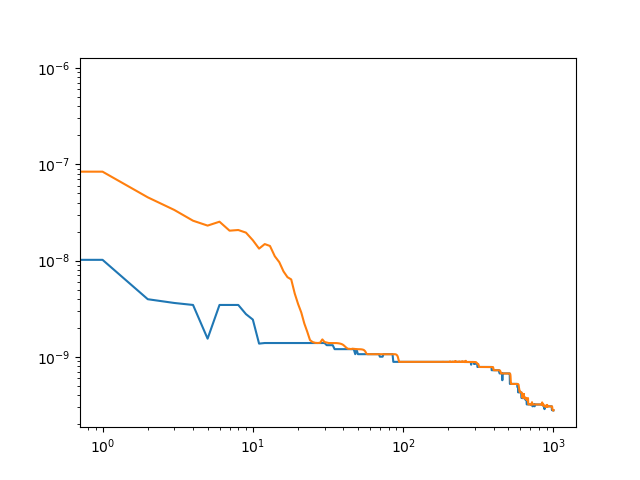
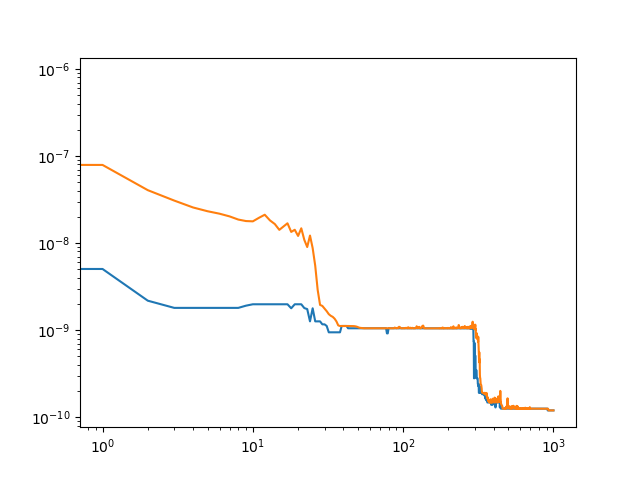
Update on revolution algorithm.

diff --git a/Fre_arrange_deap.py b/Fre_arrange_deap.py
@@ -57,14 +57,14 @@ def bode_basic_RLC(f1,f2):
 
 def Crosstalk(f1,f2,p1,p2):
     '''
-    2对1的串扰电压大小。
+    2对1的串扰造成的电流噪声功率谱密度。
     '''
     p1 = np.array(p1)
     p2 = np.array(p2)
     # print(f1,f2,p1,p2)
     M = (np.linalg.norm(p1-p2)**(-4))
     I = bode_basic_RLC(f1,f2)
-    return I*f2*M
+    return (I*f2*M)**2
 
 def Ucs(individual):
     Ucs = []
@@ -73,8 +73,8 @@ def Ucs(individual):
         Uc = 0
         for j,f2 in enumerate(newArrange):
             if f2 != f1:
-                Uc += Crosstalk(f1,f2,Position[i],Position[j])
-        Ucs.append(Uc)
+                Uc += Crosstalk(f1,f2,Position[i],Position[j]) 
+        Ucs.append(np.sqrt(Uc))
     return np.array(Ucs)
 
 def fitness(individual):
@@ -85,8 +85,8 @@ def fitness(individual):
         for j,f2 in enumerate(newArrange):
             if f2 != f1:
                 Uc += Crosstalk(f1,f2,Position[i],Position[j])
-        Ucs.append(Uc)
-    return np.array(Ucs).max(), #也许max(Ucs)更合适？
+        Ucs.append(np.sqrt(Uc))
+    return np.array(Ucs).max(), 
 
 def opt(individual, k=2):
     # 该局部搜索算法仅适用于经典TSP问题
